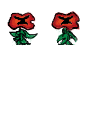
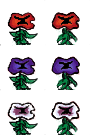
improved pansy graphics

diff --git a/2016SpringACEGame/src/mainPac/ControlPanel.java b/2016SpringACEGame/src/mainPac/ControlPanel.java
@@ -424,21 +424,21 @@ e.setScreenX(e.getScreenX() - (int)e.recCollisionWithUnit(unitToTest).getWidth()
 	}
 		//end upper unit testing
 		
-		//start ground collision test: 
-//		if(MapPanel.map[e.getMapX()+1][e.getMapY()+4]>0 ||
-//				MapPanel.map[e.getMapX()+1][e.getMapY()+5]>0){
-//			//if it's a terrain unit
-//	Unit unitToTest = (MapPanel.map[e.getMapX()+1][e.getMapY()+4]>0) ? 
-// MapPanel.units[e.getMapX()+1-MapPanel.currmapMinX][e.getMapY()+4]:
-//	 MapPanel.units[e.getMapX()+1-MapPanel.currmapMinX][e.getMapY()+5];
-//			if(e.collisionWithUnit(unitToTest)){ //check the unit
-//			e.setScreeny(e.getScreenY() - (int)e.recCollisionWithUnit(unitToTest).getHeight()); 
-//	//pushes the character back to its desired position
-//				e.velocity=0;
-//				e.setOnGround(true);
-//				e.changeStatus(0);
-//				}
-//		}	
+	//	start ground collision test: 
+		if(MapPanel.map[e.getMapX()+1][e.getMapY()+4]>0 ||
+				MapPanel.map[e.getMapX()+1][e.getMapY()+5]>0){
+			//if it's a terrain unit
+	Unit unitToTest = (MapPanel.map[e.getMapX()+1][e.getMapY()+4]>0) ? 
+ MapPanel.units[e.getMapX()+1-MapPanel.currmapMinX][e.getMapY()+4]:
+	 MapPanel.units[e.getMapX()+1-MapPanel.currmapMinX][e.getMapY()+5];
+			if(e.collisionWithUnit(unitToTest)){ //check the unit
+			e.setScreeny(e.getScreenY() - (int)e.recCollisionWithUnit(unitToTest).getHeight()); 
+	//pushes the character back to its desired position
+				e.velocity=0;
+				e.setOnGround(true);
+				e.changeStatus(0);
+				}
+		}	
 		
 			if(MapPanel.map[e.getMapX()+2][e.getMapY()+4]>0 ||
 					MapPanel.map[e.getMapX()+2][e.getMapY()+5]>0){
@@ -471,7 +471,8 @@ e.setScreenX(e.getScreenX() - (int)e.recCollisionWithUnit(unitToTest).getWidth()
 				}
 				//end of lower units check'
 				if(	MapPanel.map[e.getMapX()+2][e.getMapY()+5]==0 &&
-						MapPanel.map[e.getMapX()+3][e.getMapY()+5]==0	){
+						MapPanel.map[e.getMapX()+3][e.getMapY()+5]==0	
+						&& MapPanel.map[e.getMapX()+1][e.getMapY()+5]==0){
 					e.setOnGround(false);
 	}
 	}
@@ -480,6 +481,23 @@ e.setScreenX(e.getScreenX() - (int)e.recCollisionWithUnit(unitToTest).getWidth()
 		if(mainCharacter.getMapY()>50){
 			System.out.println("you lose!!!!!");
 		   lost=true;
+		}else{
+		for(enemy e: CharacterPanel.enemies){
+			if(mainCharacter.collisionWithEnemy(e)){
+				System.out.println("you lose!!!!!");
+				lost=true;
+				mainCharacter.setScreenX(mainCharacter.getScreenX() - 
+		(int)mainCharacter.recCollisionWithEnemy(e).getWidth()); 
+							if(e.hVelo!=0)
+							mainCharacter.hVelo=0;
+							}
+			if(mainCharacter.collisionWithEnemy(e)){
+				mainCharacter.setScreeny(mainCharacter.getScreenY() - 
+						(int)mainCharacter.recCollisionWithEnemy(e).getHeight()); 
+				mainCharacter.velocity=0;
+			
+			}
+		}
 		}
 	}
 	

diff --git a/2016SpringACEGame/src/character/Character.java b/2016SpringACEGame/src/character/Character.java
@@ -9,6 +9,7 @@ import java.io.InputStream;
 
 import javax.imageio.ImageIO;
 
+import enemies.enemy;
 import mainPac.Game;
 import mainPac.ImageLoader;
 import map.MapPanel;
@@ -143,12 +144,24 @@ public class Character {
 		}
 	}
 	
+	public boolean collisionWithEnemy(enemy e){
+		try{
+			if (getMyBounds().intersects(e.getMyBounds())){
+				return true;
+			}else{
+				return false;
+			}
+			}catch(Exception p){
+				return false;
+			}
+	}
+	
+	public Rectangle recCollisionWithEnemy(enemy e){
+		return getMyBounds().intersection(e.getMyBounds());
+	}
+	
 	public Rectangle recCollisionWithUnit(Unit unit){
-		if (getMyBounds().intersects(unit.getBounds())){
-			return getMyBounds().intersection(unit.getBounds());
-		}else{
-			return null;
-		}
+		return getMyBounds().intersection(unit.getBounds());
 	}
 	
 	public void fall(){ //fall is called a lot

diff --git a/2016SpringACEGame/src/enemies/flower.java b/2016SpringACEGame/src/enemies/flower.java
@@ -1,6 +1,7 @@
 package enemies;
 
 import java.awt.Graphics;
+import java.awt.Rectangle;
 
 import character.CharacterPanel;
 import mainPac.ImageLoader;
@@ -9,16 +10,21 @@ public class flower extends enemy{
 
 	public flower(int initialmapX, int initialmapY, ImageLoader il, CharacterPanel cp, int facing) {
 		super(initialmapX, initialmapY, il, cp, facing);
-		myImage=il.flower.getSubimage(0, 0, 90, 45);
+		myImage=il.flower.getSubimage(
+				0,(int)(Math.random()/0.34)*45, 90, 45
+				);
 		characterName="Pansy";
 		picWidth=45;
 		picHeight=45;
-		individualWidth=45;
-		individualHeight=45;
+		individualWidth=25;
+		individualHeight=30;
 		numOfWalkingStatus=2;
 		hVelo=5;
 		walking=true;
 	}
 
-
+	@Override
+	public Rectangle getMyBounds(){
+		return new Rectangle(x+10, y+15, individualWidth, individualHeight);
+	}
 }
